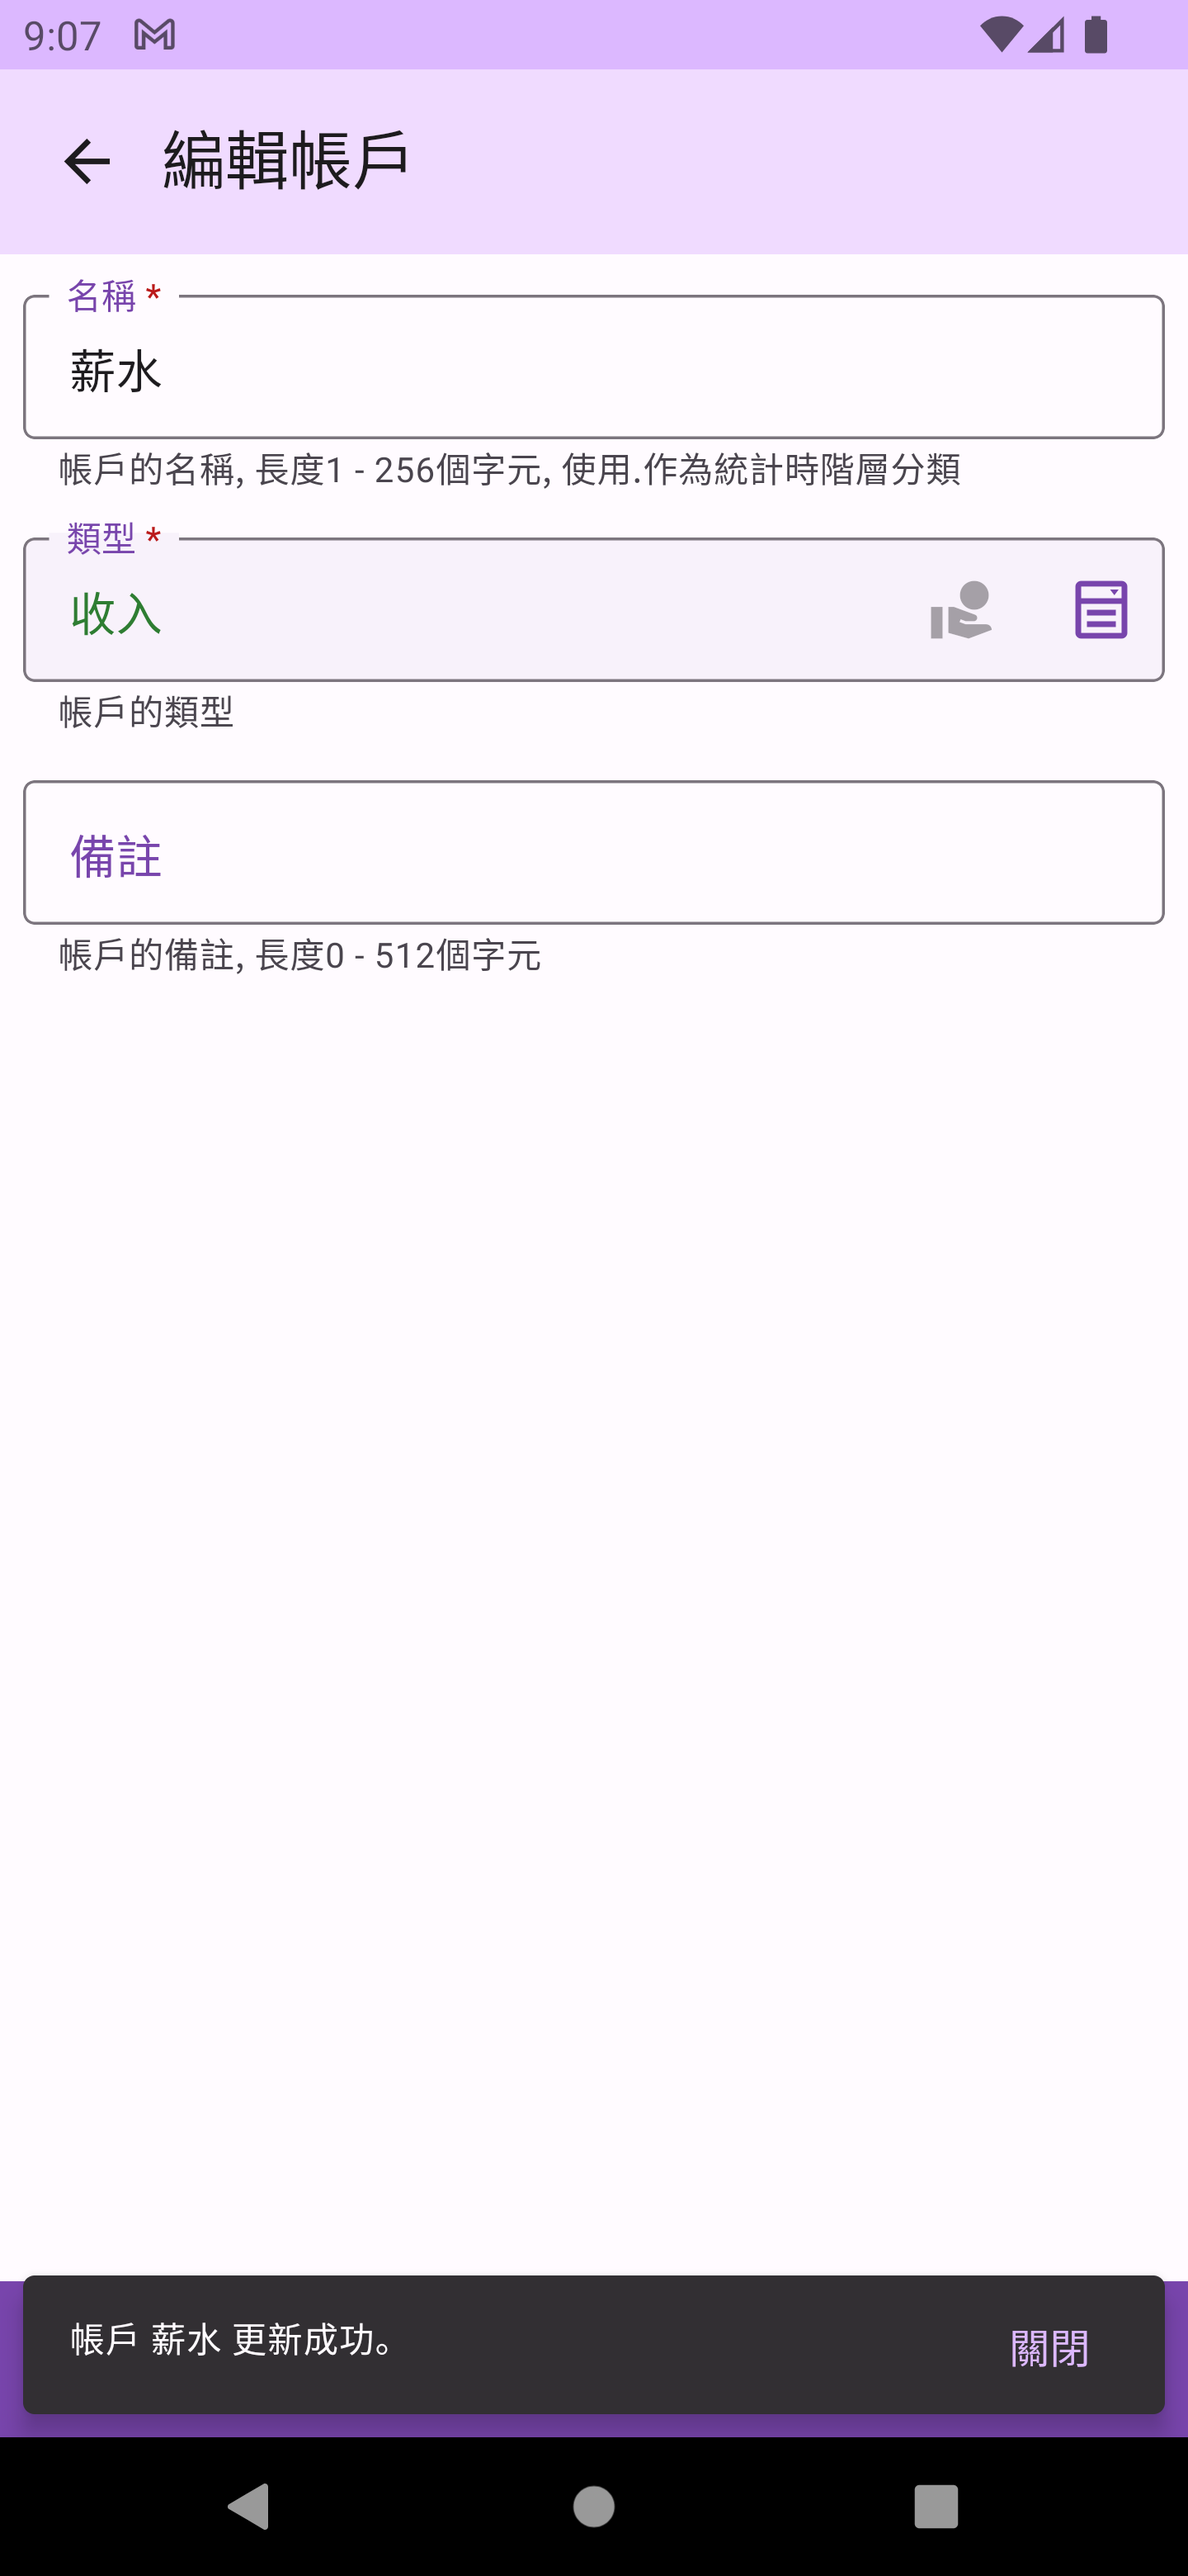
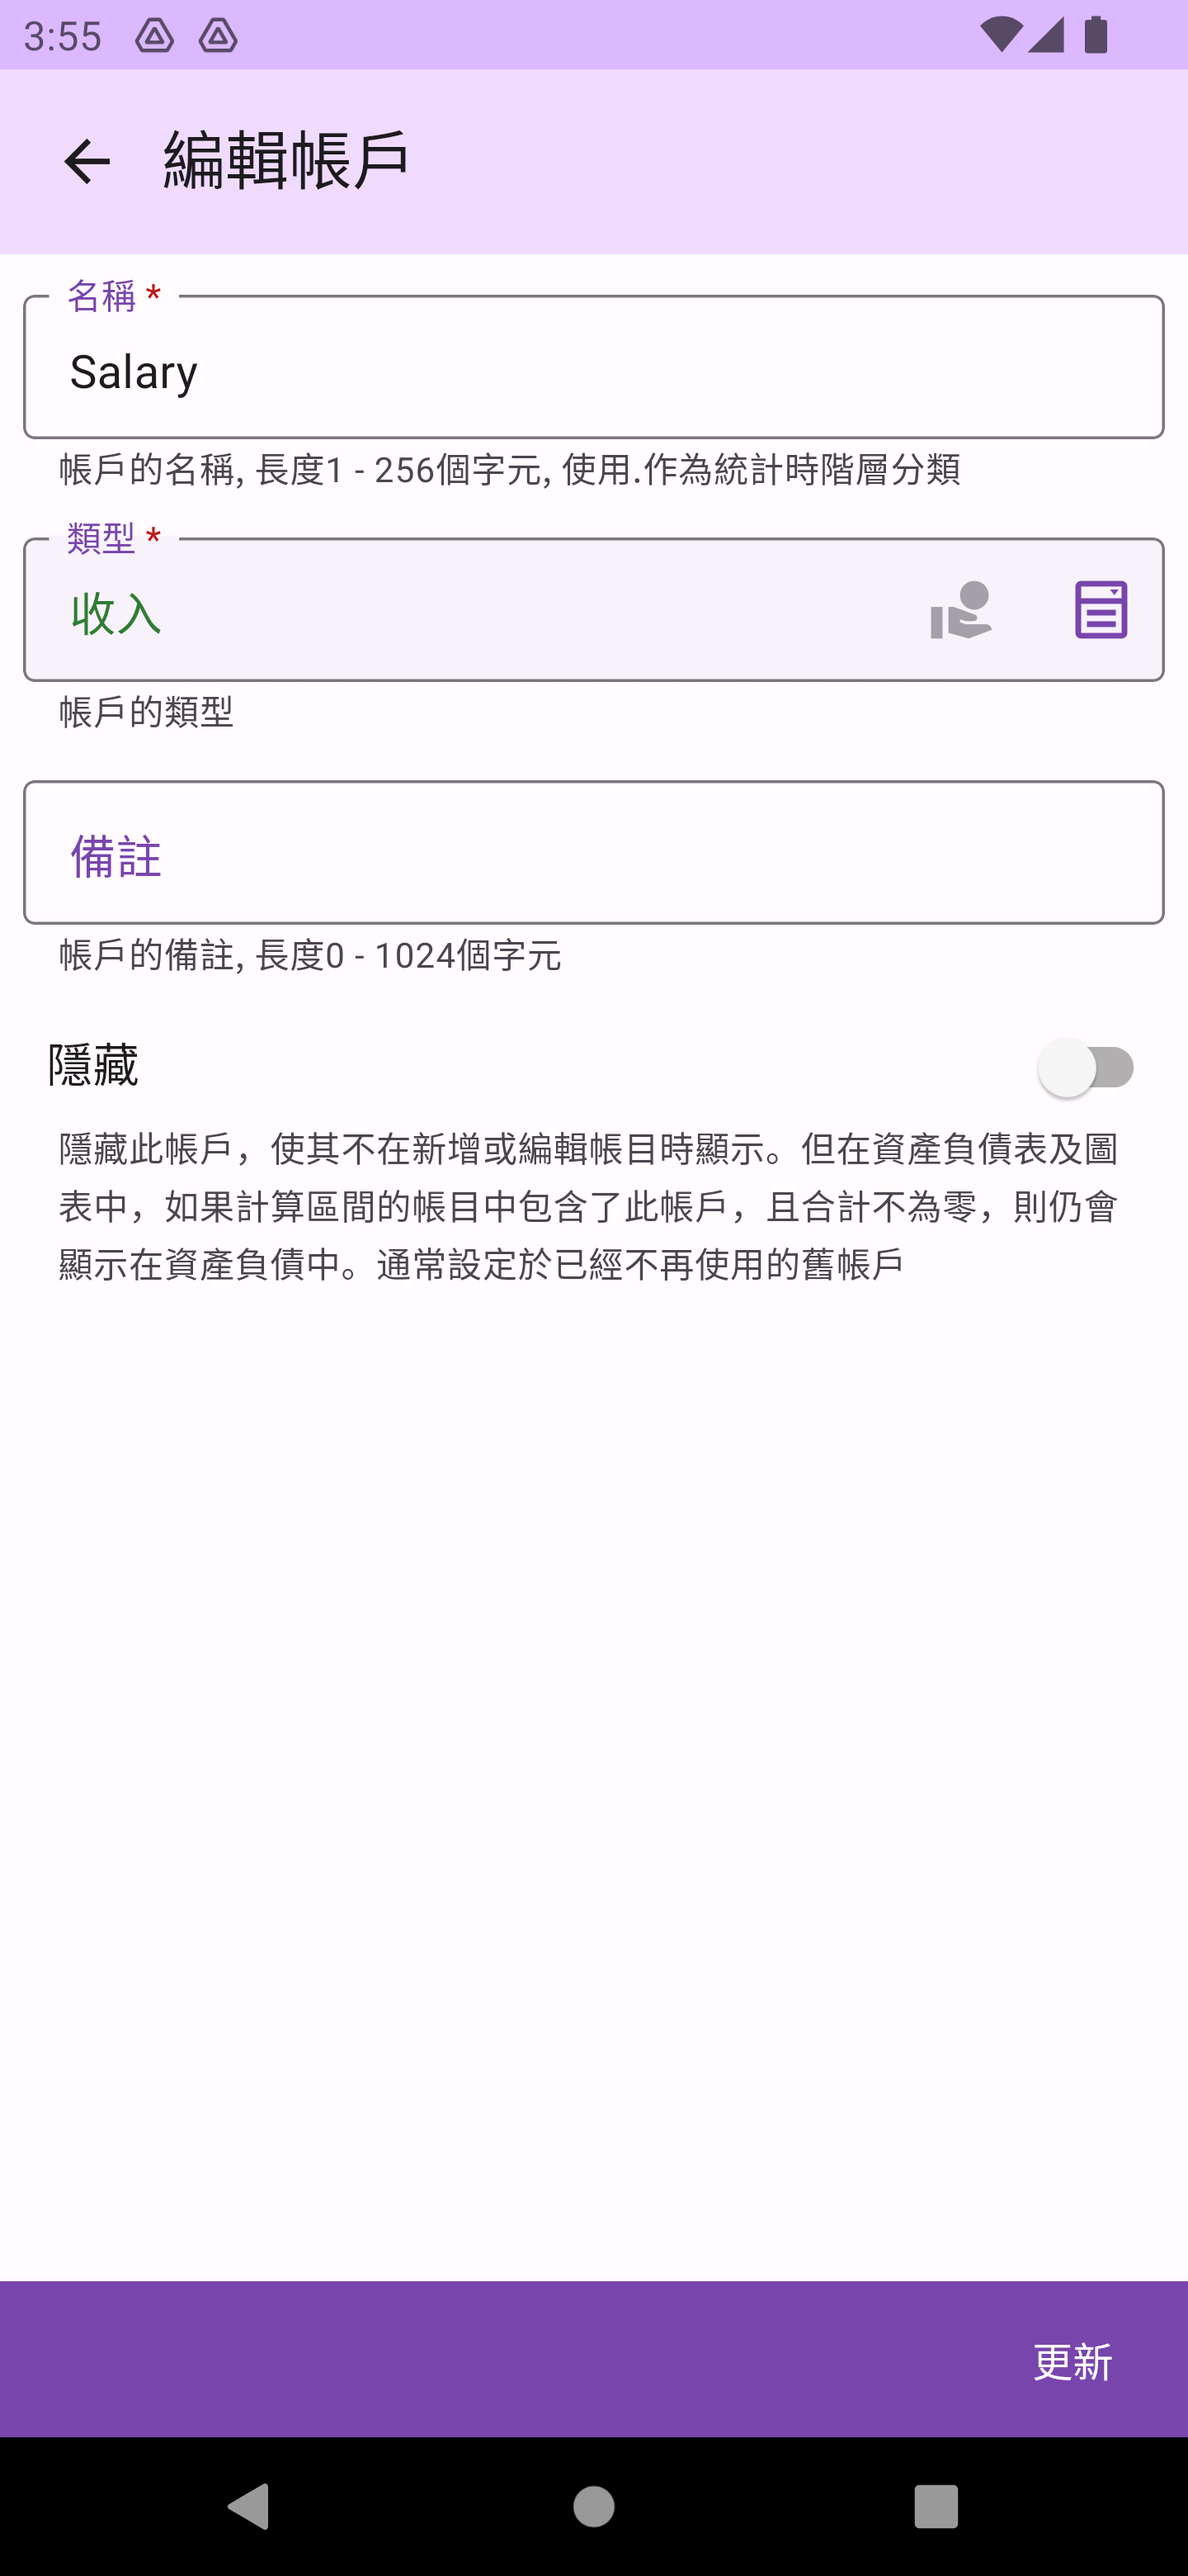
add content for 1.5.0

diff --git a/eng/faq.md b/eng/faq.md
@@ -2,7 +2,7 @@
 
 ## Will there be an ad-free feature?
 
-Currently, ads are the main source of development and maintenance income for `Daily Money One`. Without sufficient user support, it will be difficult to continuously update and maintain. When embedding ads, I try to consider not affecting the user experience. I plan to launch an ad-free version or provide an ad-free option. Until then, I hope users who want an ad-free experience can understand and help promote `Daily Money One`.
+Currently, ads are the main source of development and maintenance income for `Daily Money One`. Without sufficient user support, it will be difficult to continuously update and maintain. When embedding ads, I try to consider not affecting the user experience. Users who contribute to the software (such as providing useful multilingual translations, helping with effective software promotion, or assisting in identifying significant bugs) can request a [License](license.md) from the author (cola.orange@gmail.com) and then set the advertisement level in the preferences. Please note that choosing an ad-free mode will reduce support for this software, affecting its maintenance resources and lifecycle.
 
 ## Will there be an iOS version?
 
@@ -10,7 +10,7 @@ I plan to launch an iOS version, which is why I chose to rewrite `Daily Money On
 
 ## What if I really forgot my password?
 
-If you have a previous backup or exported JSON file, simply clear `Daily Money One` application data on Android, then restore or import the backup file to recover your data (the password is not stored in the backup file or JSON file). If you really don't have a backup, you can use the `Reset Password Procedure` on the password input screen, Then email me (cola.orange@gmail.com), explain your reason in the email, copy and paste the Reset Password Token to the mail too, and also attach a screenshot of your phone screen as proof. Upon receiving your email, I will arrange time to generate a reset password code and reply to you. After receiving the reset code, you just need to copy the code into the Reset Password Code field on the screen and press the button to reset the password. Please note that the I do not guarantee the timeliness and effectiveness of this procedure, so it is essential to remember your password no matter what.
+If you have a previous backup or exported JSON file, simply clear `Daily Money One` application data on Android, then restore or import the backup file to recover your data (the password is not stored in the backup file or JSON file). If you really don't have a backup, you can use the `Reset Password Procedure` on the password input screen, Then email author, explain your reason in the email, copy and paste the Reset Password Token to the mail too, and also attach a screenshot of your phone screen as proof. Upon receiving your email, I will arrange time to generate a reset password code and reply to you. After receiving the reset code, you just need to copy the code into the Reset Password Code field on the screen and press the button to reset the password. Please note that the I do not guarantee the timeliness and effectiveness of this procedure, so it is essential to remember your password no matter what.
 
 <div align="center">
 <img src="imgs/faq-1.png" alt="" width="375">

diff --git a/cht/faq.md b/cht/faq.md
@@ -2,7 +2,7 @@
 
 ## 會推出無廣告功能嗎?
 
-目前，廣告將會是`每日記帳本One`主要的開發及維護收入來源。如果沒有足夠的使用者來支持，`每日記帳本One`將難以長遠地更新及維護。在嵌入廣告時，我盡量考慮到不影響使用者體驗的原則。 我有計劃推出無廣告的版本或提供無廣告的選項。在此之前，希望想要無廣告體驗的使用者能包涵，並多多推廣每日記帳本One。
+目前，廣告將會是`每日記帳本One`主要的開發及維護收入來源。如果沒有足夠的使用者來支持，`每日記帳本One`將難以長遠地更新及維護。在嵌入廣告時，我盡量考慮到不影響使用者體驗的原則。對這個軟體有貢獻的使用者（例如提供有用的多國語系翻譯、協助進行有效的軟體推廣、協助識別具影響力的錯誤等），可以向作者(cola.orange@gmail.com)索取[授權](license.md)，並在偏好設定中設置廣告層級。請注意，選擇無廣告模式將減少對本軟體的支援，會影響其維護資源及生命周期。
 
 ## 會推出無iOS版本嗎?
 
@@ -10,7 +10,7 @@
 
 ## 真的忘記密碼了，怎麼辦?
 
-若您有先前的備份或匯出的JSON檔案，只需使用Android清除`每日記帳本One`的資料後，再還原或匯入備份檔，即可恢復資料(密碼不會存在備份檔或JSON檔裏)。 如果真的沒有備份，您可以在密碼輸入畫面中使用`重設密碼程序`，並寄信給我(cola.orange@gmail.com)。信中說明您的原因並複製貼上密碼重設令牌(Token)，再附上手機畫面的截圖證明。我在收到信後，會安排時間產生重設密碼代碼並回信給您。 在收到重設代碼後，您只需將代碼複製到畫面中的代碼欄位，即可按下碼定重設密碼(清除密碼)。請注意，作者並不保證此程序的時效性及有效性，請務必記住您的密碼才是。
+若您有先前的備份或匯出的JSON檔案，只需使用Android清除`每日記帳本One`的資料後，再還原或匯入備份檔，即可恢復資料(密碼不會存在備份檔或JSON檔裏)。 如果真的沒有備份，您可以在密碼輸入畫面中使用`重設密碼程序`，並寄信給作者。信中說明您的原因並複製貼上密碼重設令牌(Token)，再附上手機畫面的截圖證明。我在收到信後，會安排時間產生重設密碼代碼並回信給您。 在收到重設代碼後，您只需將代碼複製到畫面中的代碼欄位，即可按下碼定重設密碼(清除密碼)。請注意，作者並不保證此程序的時效性及有效性，請務必記住您的密碼才是。
 
 <div align="center">
 <img src="imgs/faq-1.png" alt="" width="375">

diff --git a/eng/license.md b/eng/license.md
@@ -1,0 +1,14 @@
+# License
+
+This software is free and relies on advertisements for maintenance resources, so no license is required for use. However, users who contribute to the software (such as providing useful multilingual translations, helping with effective software promotion, or assisting in identifying significant bugs) can request a license from the author.
+
+## Importing a License
+You can set the acquired license in the `About > License` screen. The license can be bound to either an email address or a device's unique code; if either one matches, the license is considered valid. You can then set the advertisement level in the preferences. Please note that choosing an ad-free mode will reduce support for this software, affecting its maintenance resources and lifecycle.
+
+<div align="center">
+
+<img src="imgs/license-1.png" alt="" width="375">
+
+</div>
+
+* An ad-free license may be time-limited or unlimited, depending on the content of the acquired license.

diff --git a/eng/account.md b/eng/account.md
@@ -50,7 +50,7 @@ The `Edit`, `Transaction List`, and `Initialize` functions are on the right side
 
 ## Edit Account
 
-When editing an account, you can change the account's name and type. The calculation on the balance sheet are real-time, so as long as the correct name and type are maintained, you do not need to worry about errors in the calculation results.
+When editing an account, you can change the account's name and type. The calculation on the balance sheet are real-time, so as long as the correct name and type are maintained, you do not need to worry about errors in the calculation results. Additionally, you can hide old accounts that have not been used for a long time. Hidden accounts will not appear in the account picker dialog, but if the account is included in the balance sheet and its value is not zero, it will still appear in the balance sheet.
 
 <div align="center">
 

diff --git a/cht/license.md b/cht/license.md
@@ -1,0 +1,14 @@
+# 授權
+
+本軟體為免費軟體，依靠廣告來獲得維護資源，不需任何授權即可使用。但對這個軟體有貢獻的使用者（例如提供有用的多國語系翻譯、協助進行有效的軟體推廣、協助識別具影響力的錯誤等），可以向作者索授權。
+
+## 匯入授權
+您可以在`關於>授權` 畫面設定取得的授權，授權可綁定電子郵件或是設備唯一碼，其中任何一者符合即視為有效授權。並在偏好設定中設置廣告層級。請注意，選擇無廣告模式將減少對本軟體的支援，會影響其維護資源及生命周期。
+
+<div align="center">
+
+<img src="imgs/license-1.png" alt="" width="375">
+
+</div>
+
+* 無廣告之授權，依取得的授權內容，可能會有限定時間或無時間限定。

diff --git a/cht/account.md b/cht/account.md
@@ -50,7 +50,7 @@
 
 ## 編輯帳戶
 
-編輯帳戶時，您可以變更帳戶的名稱和類型。資產負債表的統計是即時的，只要維持正確的名稱和類型，您不必擔心會對統計結果造成錯誤。
+編輯帳戶時，您可以變更帳戶的名稱和類型。資產負債表的統計是即時的，只要維持正確的名稱和類型，您不必擔心會對統計結果造成錯誤。此外，對於已經常久沒用的舊帳戶，你可以將其隱藏。被隱藏的帳戶將不會在帳戶挑選對話窗中出現，但在資產負債表中，如果該帳戶有被計算到，且其值不為零的時候，則仍會出現在資產負債表中。
 
 <div align="center">
 

diff --git a/eng/preferences.md b/eng/preferences.md
@@ -40,6 +40,26 @@ Set different color themes.
 
 </div>
 
+### Transaction List Settings
+
+Configure various options within the transaction list.
+
+<div align="center">
+
+<img src="imgs/preferences-13.png" alt="" width="375">
+
+</div>
+
+### Balance Sheet Settings
+
+Configure various options within the balance sheet.
+
+<div align="center">
+
+<img src="imgs/preferences-14.png" alt="" width="375">
+
+</div>
+
 ### Order of Balance Account Type
 
 Set the order of account types in the balance sheet and chart.

diff --git a/cht/preferences.md b/cht/preferences.md
@@ -42,6 +42,26 @@
 
 </div>
 
+### 帳目列表設定
+
+設定帳目列表的內的各式選項。
+
+<div align="center">
+
+<img src="imgs/preferences-13.png" alt="" width="375">
+
+</div>
+
+### 資產負債表設定
+
+設定資產負債表的內的個式選項。
+
+<div align="center">
+
+<img src="imgs/preferences-14.png" alt="" width="375">
+
+</div>
+
 ### 資產負債帳戶類型順序
 
 設定資產負債表的帳戶類型順序。

diff --git a/cht/README.md b/cht/README.md
@@ -20,6 +20,7 @@
 * 其他功能
   * [喜好設定](preferences.md)
   * [密碼保護](password.md)
+  * [授權](license.md)  
 * 附錄
   * [小密技](tips.md)
   * [常見問題](faq.md)

diff --git a/eng/README.md b/eng/README.md
@@ -20,6 +20,7 @@
 * Other Features
   * [Preferences](preferences.md)
   * [Password Protection](password.md)
+  * [License](license.md)
 * Appendix
   * [Tips](tips.md)
   * [FAQ](faq.md)
